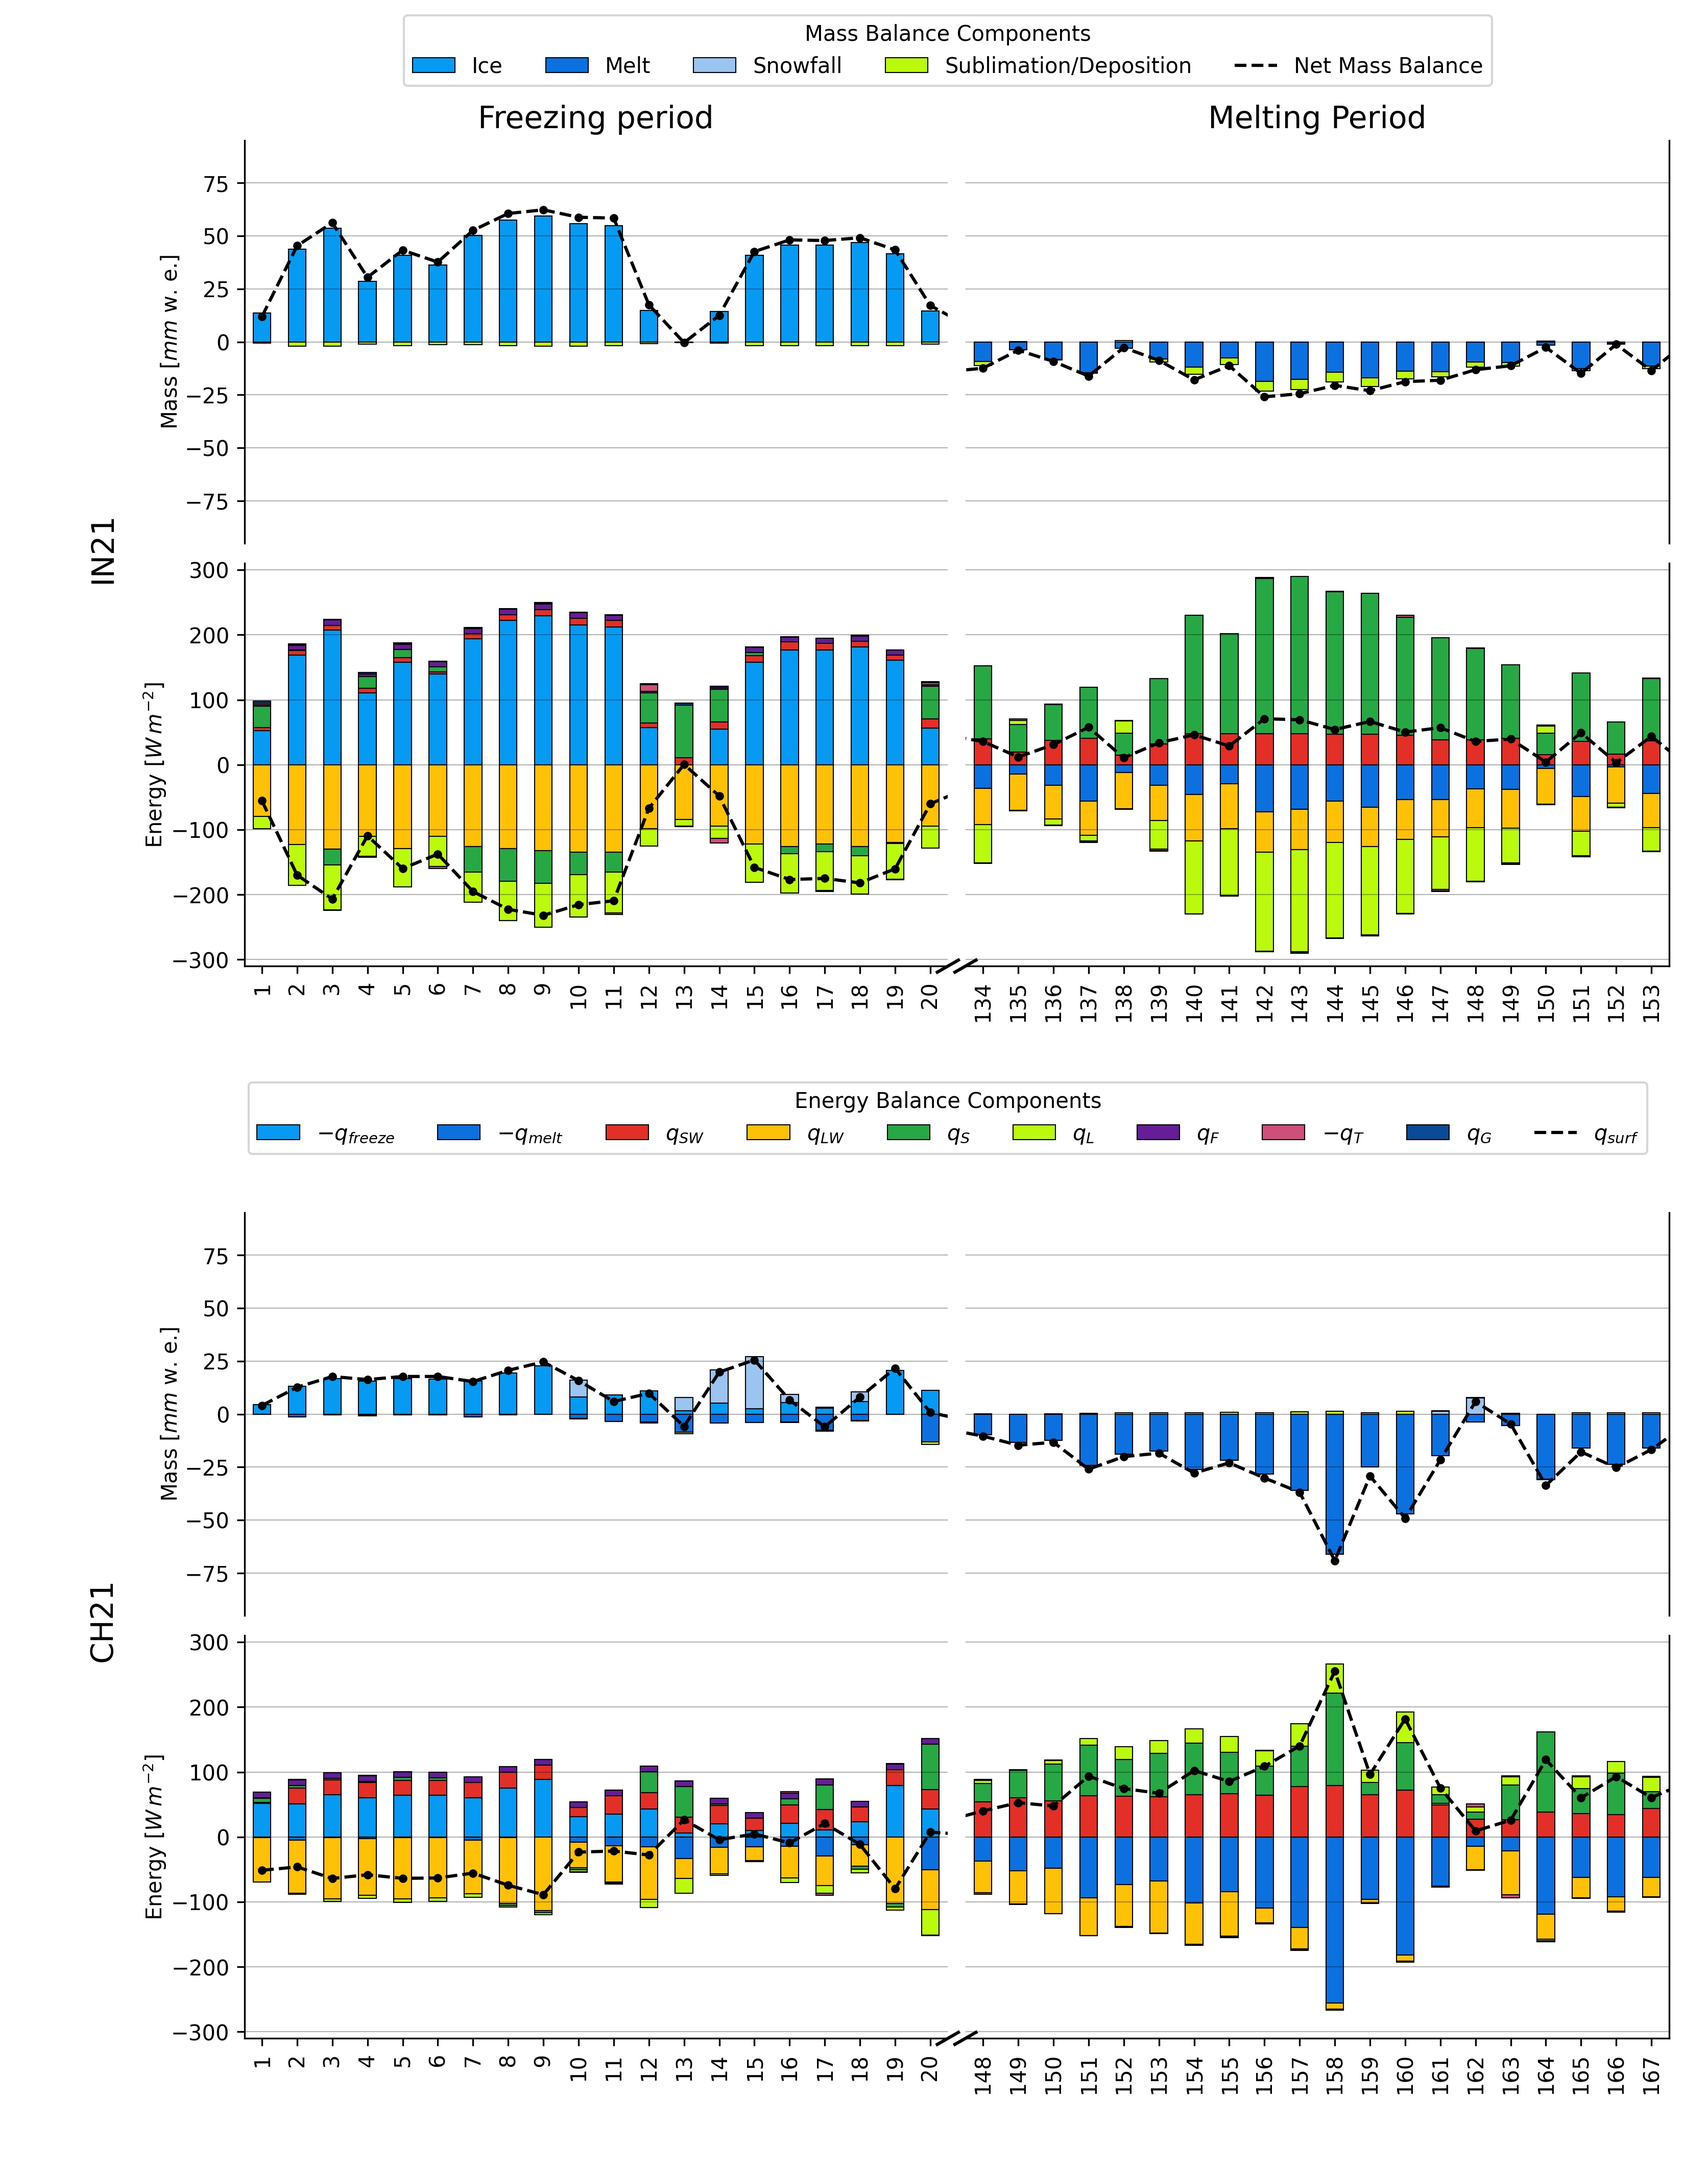
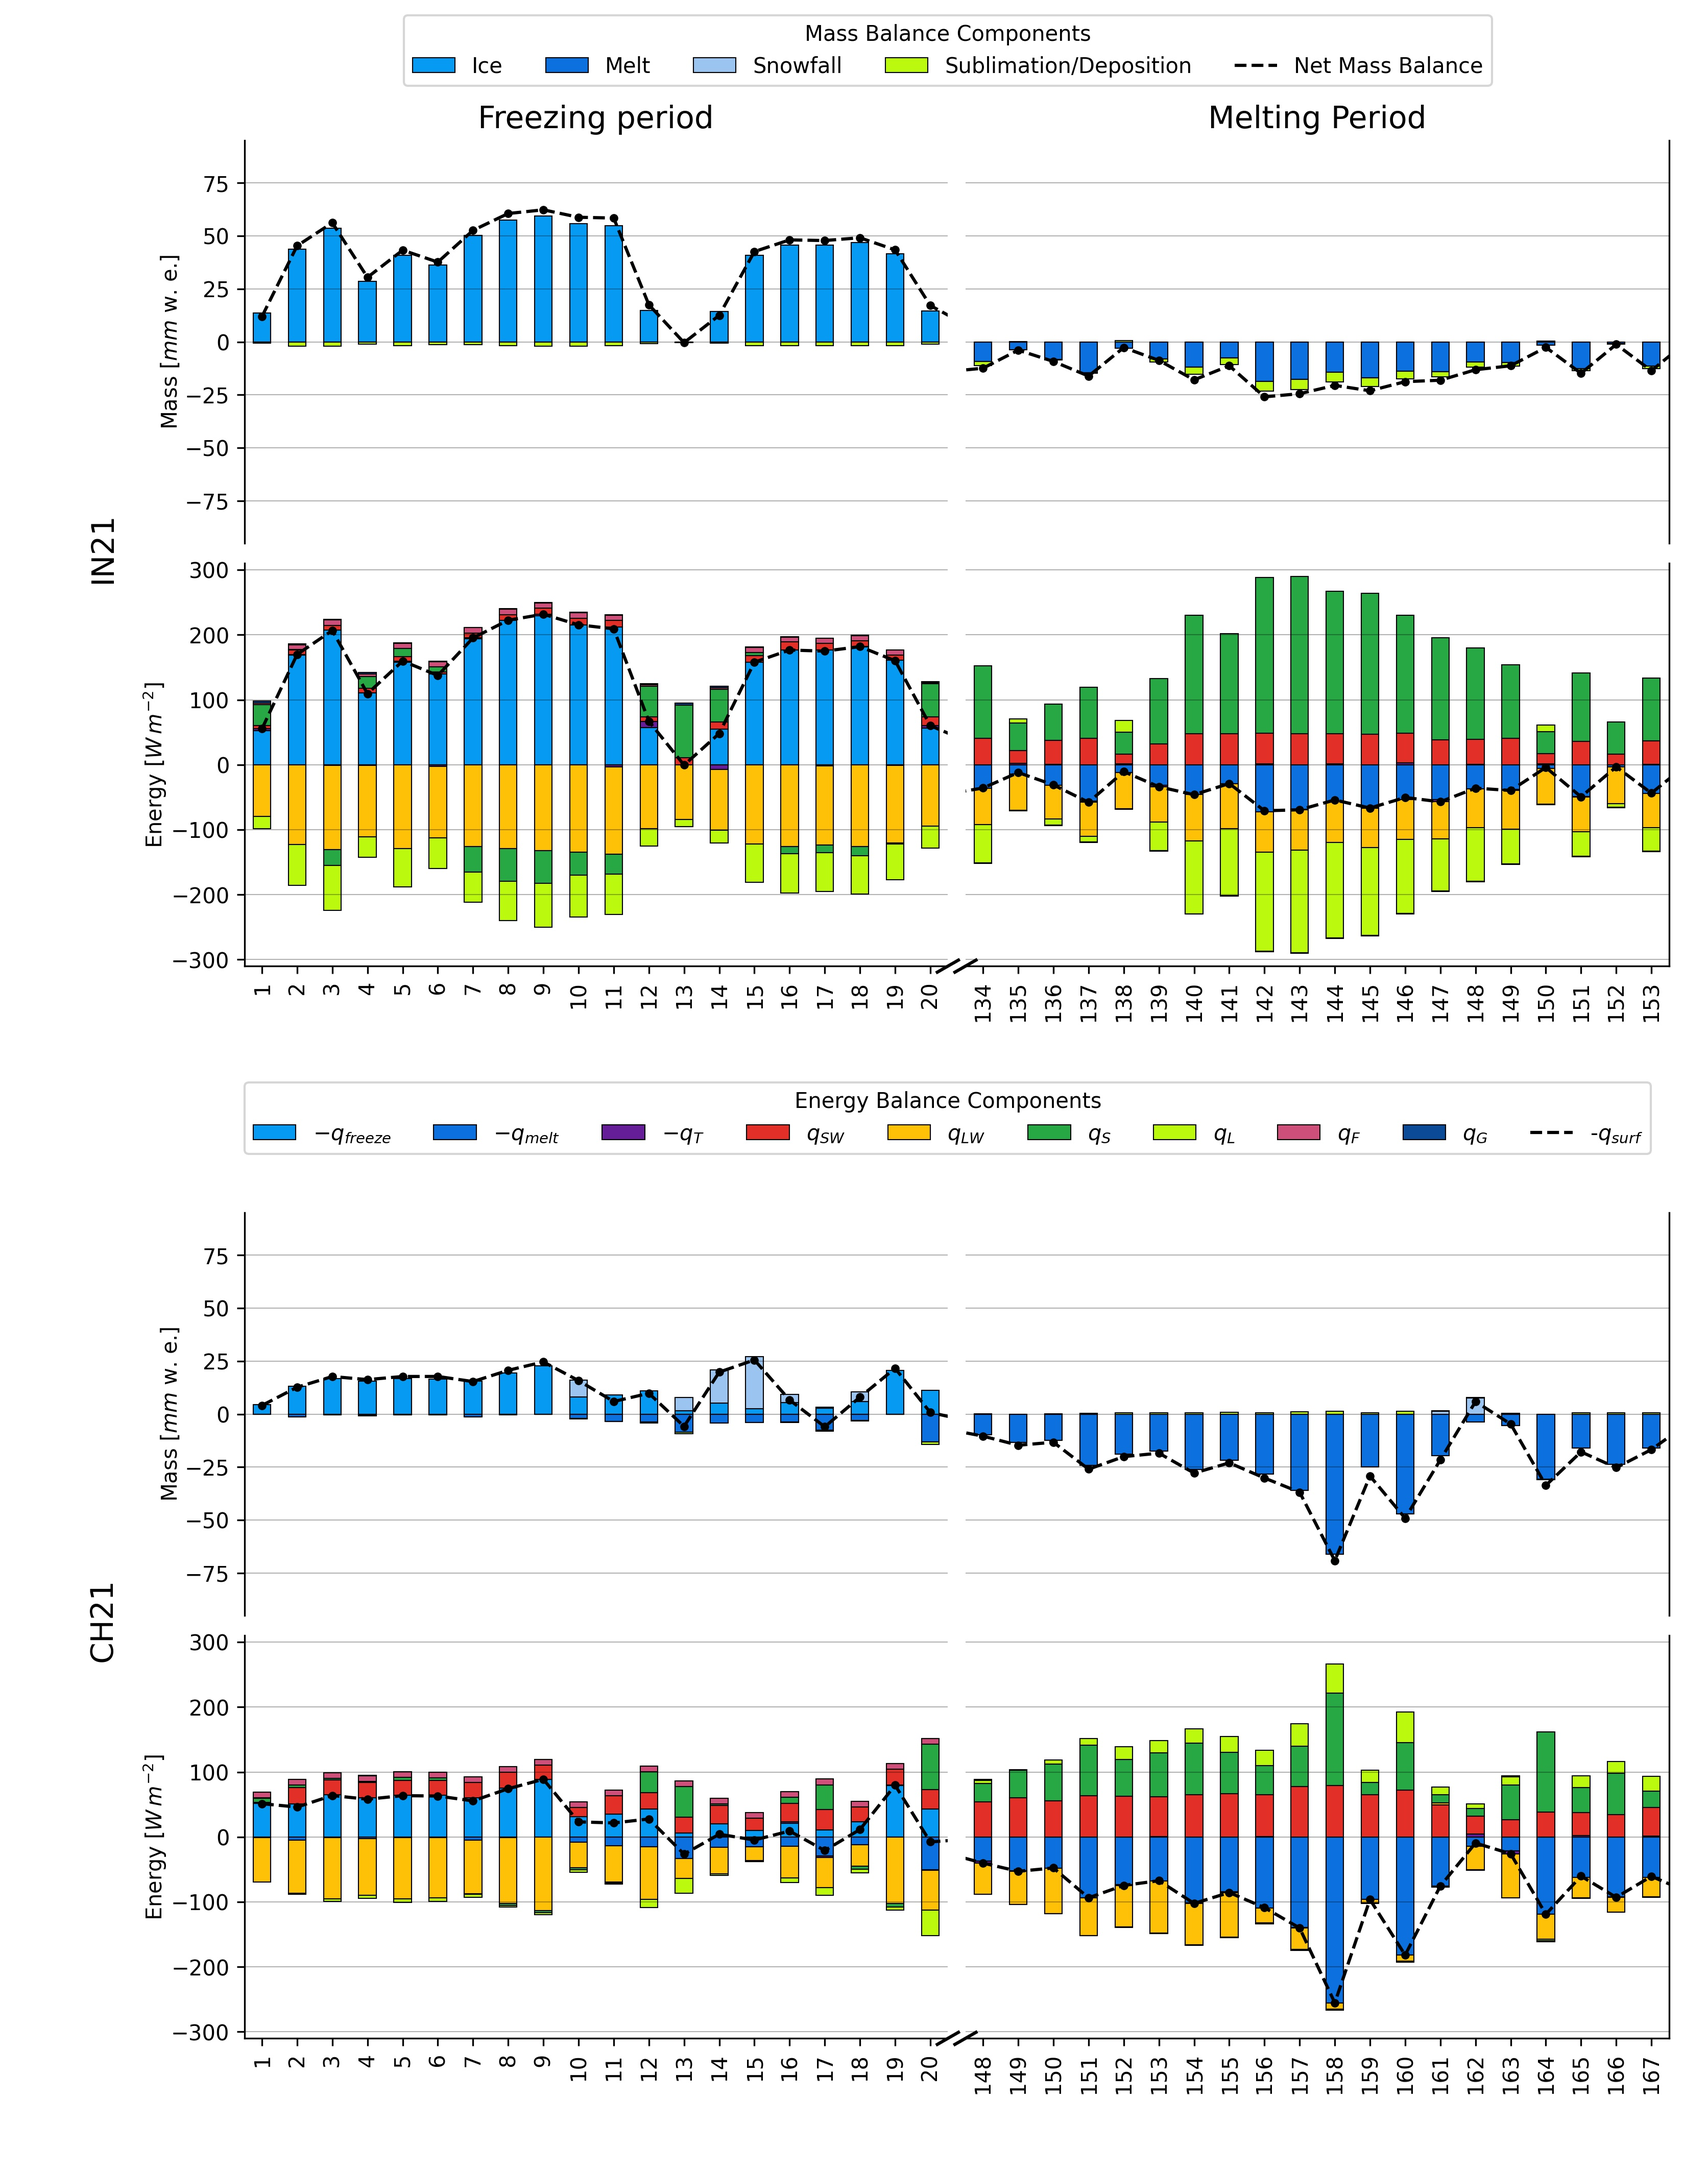
mass energy plot update

diff --git a/src/utils/energy_bal_plot.py b/src/utils/energy_bal_plot.py
@@ -23,7 +23,7 @@ from src.utils.settings import config
 from src.models.methods.metadata import get_parameter_metadata
 from src.models.icestupaClass import Icestupa
 
-def add_patch(legend, title = "Energy Balance Components", label="$q_{surf}$", color = 'k'):
+def add_patch(legend, title = "Energy Balance Components", label="-$q_{surf}$", color = 'k'):
     from matplotlib.patches import Patch
     ax = legend.axes
 
@@ -40,9 +40,6 @@ def add_patch(legend, title = "Energy Balance Components", label="$q_{surf}$", c
 
 if __name__ == "__main__":
     locations = ["gangles21", "guttannen21"]
-    # locations = ["gangles21", "guttannen21", "guttannen20"]
-    # locations = ['guttannen21',  'gangles21']
-    # locations = ['guttannen21']
 
     blue = "#0a4a97"
     red = "#e23028"
@@ -75,7 +72,7 @@ if __name__ == "__main__":
                 "Ql": "$q_L$",
                 "Qf": "$q_{F}$",
                 "Qg": "$q_{G}$",
-                "Qsurf": "$q_{surf}$",
+                "Qsurf": "$-q_{surf}$",
                 "Qmelt": "$-q_{melt}$",
                 "Qfreeze": "$-q_{freeze}$",
                 "Qt": "$-q_{T}$",
@@ -156,17 +153,17 @@ if __name__ == "__main__":
         # dfd = dfd.set_index('When')
 
 
-        dfd[["$-q_{freeze}$", "$-q_{melt}$", "$-q_{T}$"]] *= -1
+        dfd[["$-q_{freeze}$", "$-q_{melt}$", "$-q_{T}$", "$-q_{surf}$"]] *= -1
         z = dfd[
             [
                 "$-q_{freeze}$",
                 "$-q_{melt}$",
+                "$-q_{T}$",
                 "$q_{SW}$",
                 "$q_{LW}$",
                 "$q_S$",
                 "$q_L$",
                 "$q_{F}$",
-                "$-q_{T}$",
                 "$q_{G}$",
             ]
         ]
@@ -195,18 +192,18 @@ if __name__ == "__main__":
                 color=[
                     "xkcd:azure",
                     "#0C70DE",
+                    CB91_Violet,
                     red,
                     orange,
                     green,
                     "xkcd:yellowgreen",
                     # purple,
-                    CB91_Violet,
                     pink,
                     blue,
                 ],
                 ax=ax[1, j],
             )
-            ax[1, j].plot(dfd["$q_{surf}$"],'--k.')
+            ax[1, j].plot(dfd["$-q_{surf}$"],'--k.')
 
         for i in range(2):
             if ctr == 0:

diff --git a/src/utils/mean_std_table.py b/src/utils/mean_std_table.py
@@ -77,13 +77,15 @@ if __name__ == "__main__":
             },
             axis=1,
         )
-        cols = ["$q_{SW}$", "$q_{LW}$","$q_S$","$q_L$","$q_{F}$","$q_{G}$", "$q_{freeze}$", "$q_{melt}$",
+        cols = ["$q_{SW}$", "$q_{LW}$","$q_S$","$q_L$","$q_{F}$","$q_{G}$","$q_{surf}$", "$q_{freeze}$", "$q_{melt}$",
             "$q_{T}$", "SA", "fountain_froze", "melted"]
         df_e = icestupa.df[cols].describe().T[['mean', 'std']]
         print(df_e)
         print()
 
-        df_e = icestupa.df['mb'].describe().T[['mean', 'std']]
+        dfds = icestupa.df.set_index("When").resample("D").sum().reset_index()
+        dfds['mb'] *=1000
+        df_e = dfds['mb'].describe().T
         print(df_e)
         print()
 
